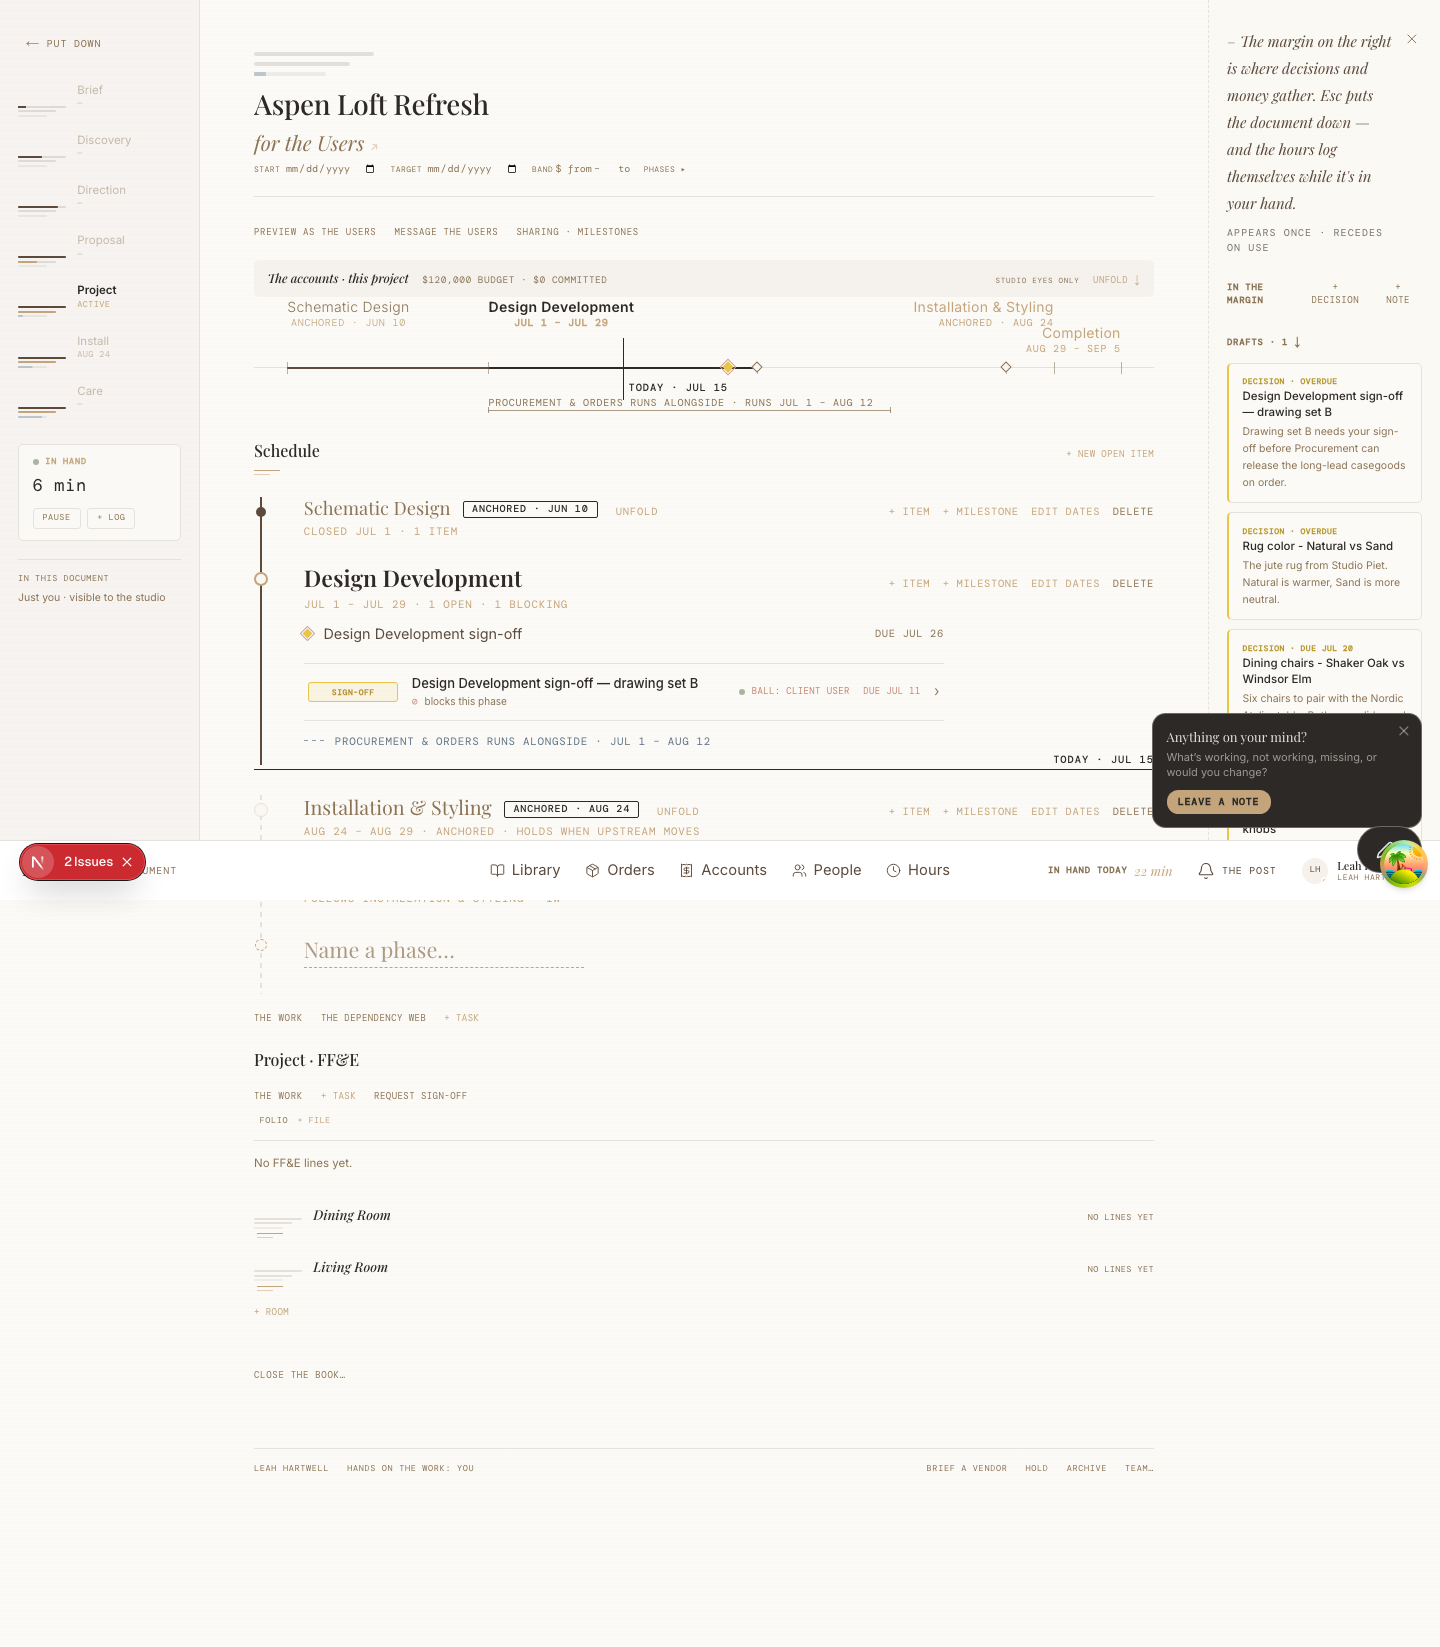
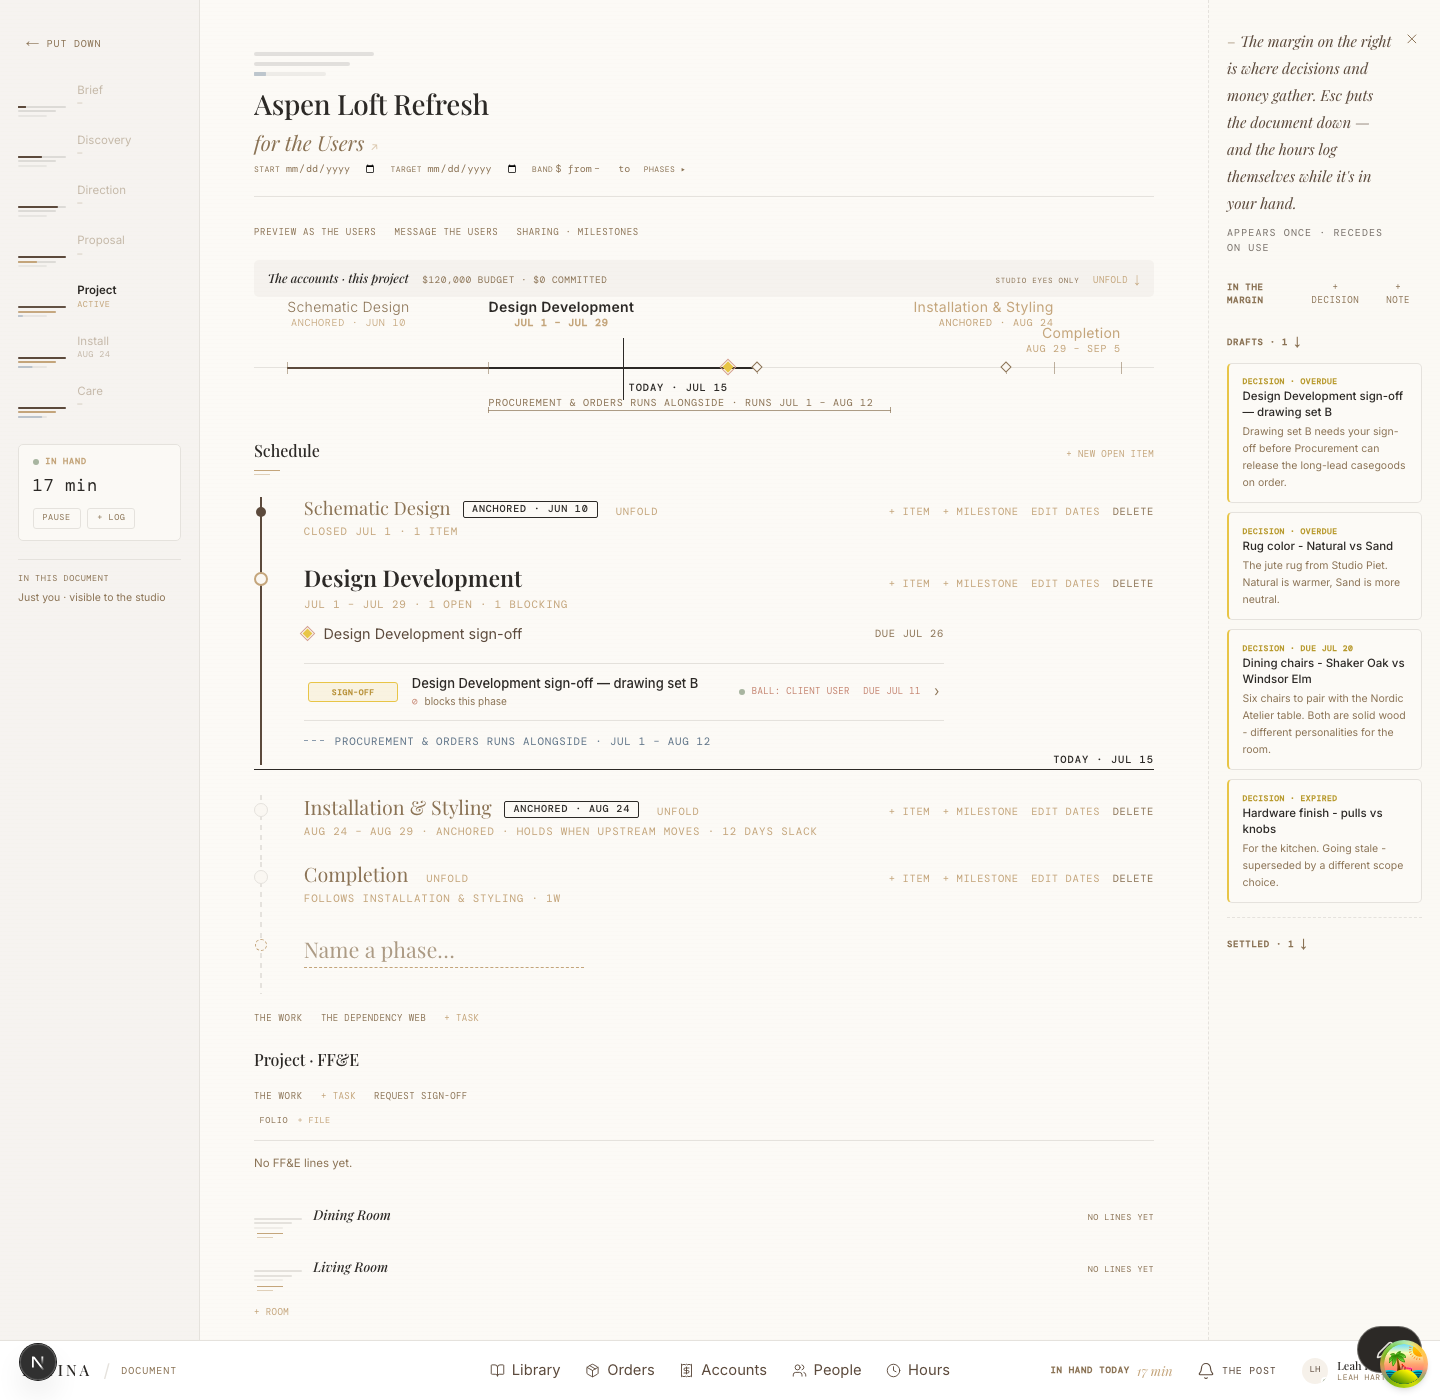
docs(the-document): slice-03 drop refresh — slack + anchored-overrun renders post-fix
Re-walk of Slice 03's Compose surface after 459883f7 (slack attribution,
anchored-lane-demotion, anchor-chip nesting). Re-verified all three fixes live
on Aspen and retook the affected captures: anchor-slack-project.png now shows
"12 days slack" (matches the seed chain's hand-computed float); overrun-
terracotta.png confirms the anchored phase stays in the main lane with the
terracotta conflict visible instead of lane-demoting; activated-spine.png
(fresh proposal->activation replay) shows Installation & Styling rendering as
a full spine row through a 44-day overrun instead of vanishing into a thread
hairline; compose-mobile.png picks up both the slack text and the disappearance
of the nested-button console warning. what-to-click.md's defect notes are
updated to "found by the walk, fixed in 459883f7, re-verified" — remaining
escalations (thread-lane phases have no compose actions, delete-confirm copy
nit, and the full design-question list) are unchanged.

Claude-Session: https://claude.ai/code/session_01Agn5SLV7F3gjngKcgArvik

diff --git a/docs/design/the-document/screenshots/schedule-slice-03/what-to-click.md b/docs/design/the-document/screenshots/schedule-slice-03/what-to-click.md
@@ -25,57 +25,57 @@ chained project — Aspen Loft Refresh (seeded, chained + anchored) is the riche
 | `patina-six-born.png` | The Patina Six applied to a proposal — 6 chained phases, PROJECT PROGRESS summary (1/3/4/8/3/1w = 20w total). |
 | `ghost-add-typing.png` | Mid-capture on the project spine's ghost line — the passive compute line ("→ Computes … · Slack → N days") visible before Enter commits. |
 | `anchor-slack.png` | Proposal composer: typing "Sep 21" into Installation's duration cell → the `ANCHORED · SEP 21` chip renders. The proposal surface has no slack meta (by design — see §5); for the project-side meta line, see `anchor-slack-project.png`. |
-| `anchor-slack-project.png` | Aspen's Installation & Styling phase, pre-mutation — "Aug 24 – Aug 29 · Anchored · Holds when upstream moves". **No "N days slack" segment renders** — see the defect note below. |
-| `overrun-terracotta.png` | Aspen with Schematic Design's duration pushed to 35d — Installation's meta reads "Chain overruns Aug 24 by 2 days" in terracotta, directly beneath its normal anchored meta. Reverted after capture. |
+| `anchor-slack-project.png` | Aspen's Installation & Styling phase, pre-mutation — "Aug 24 – Aug 29 · Anchored · Holds when upstream moves · 12 days slack". Fixed in 459883f7 — see the note below (was missing the "· N days slack" segment entirely). |
+| `overrun-terracotta.png` | Aspen with Schematic Design's duration pushed to 35d — Installation's meta reads "Chain overruns Aug 24 by 2 days" in terracotta, directly beneath its normal anchored meta, **with the anchor still in the main lane** (heading, compose actions, and all — fixed in 459883f7; previously this exact mutation could lane-demote the phase and swallow the warning it exists to show). Reverted after capture. |
 | `milestone-composer.png` | Proposal composer's anchored-milestones mini-list — "Concept sign-off" (Sign-off · Aug 1) added to Schematic Design. |
 | `milestone-composer-project.png` | Project spine's `MilestoneComposer` open on Completion, mid-entry ("Handoff walkthrough" · Event · "-3d") before submit. |
 | `delete-confirm.png` | The inline typographic delete-relink confirm on Aspen's Completion phase: `Delete "Completion"? 1 milestone go with it; 1 phase will follow Installation & Styling.` (grammar nit: "go" doesn't conjugate for the singular count — see below). |
 | `negative-duration-guard.png` | "-3d" typed into a phase duration (project surface) — inline terracotta "Durations must be positive — e.g. 3w or 10d", no write. |
 | `proposal-keydates-readonly.png` | The Patina-Six draft's client-copy preview: phases + the "Key dates" sub-line carrying the anchored "Concept sign-off" milestone. No unanchored working milestone anywhere, as required. |
-| `activated-spine.png` | The newly-activated project's document, right after `activate_proposal_as_project` — the born schedule (Consultation active; Schematic Design, Design Development, Procurement & Orders on the Rule; Installation & Styling and Completion render as thread hairlines — see the lane-promotion finding below, an honest consequence of the "Sep 21" anchor set during the demo). |
-| `compose-mobile.png` | Aspen's spine at 390px — persistent quiet compose actions (+ Item / + Milestone / Edit dates / Delete) survive the mobile fold; the "Edit dates" label truncates at the right edge (minor). |
+| `activated-spine.png` | Re-taken post-fix. The newly-activated project's document, right after `activate_proposal_as_project` — Consultation, Schematic Design, Design Development, Procurement & Orders on the Rule; **Installation & Styling now renders as a full spine row** (heading, compose actions, "Anchored · Sep 21" chip, "Chain overruns Sep 21 by 44 days" in terracotta) instead of vanishing into a thread hairline — the lane-demotion fix. Completion still renders as a Rule-only thread hairline, correctly: it's unanchored, so R100's "overlap is legal" promotion still applies to it. |
+| `compose-mobile.png` | Re-taken post-fix. Aspen's spine at 390px — persistent quiet compose actions (+ Item / + Milestone / Edit dates / Delete) survive the mobile fold; Installation & Styling's meta now includes "· 12 days slack"; the "2 Issues" console-warning badge from the earlier capture (nested-button warning) is gone. The "Edit dates" label truncation at the right edge remains (minor, unrelated). |
 | `gate-off.png` | `schedule-spine:false` — the old PhaseTimeline + CoordinationBand render byte-identical to pre-Slice-01. The proposal composer's grammar field is **not** behind this flag by design; confirmed still present with the gate off. |
 
 ## What the walk found (report in full at the task's scratchpad path; summarized here)
 
-**Confirmed defect — slack meta never renders.** `packages/utils/src/schedule.ts:620` sets
-each resolved phase's `slackDays` from `downstreamSlack(id)` (the nearest slack among a
-phase's *followers*), not from that phase's own `anchorSlack` entry. The one branch that
-consumes `slackDays` (`phaseMeta`'s `future && anchored` case) wants the anchored phase's
-*own* slack — so "N days slack" never appears anywhere, confirmed on Aspen's live,
-unmutated Installation & Styling phase (12 days slack in the DB's chain math, zero
-occurrences of "days slack" in the rendered DOM). The anchor chip and the rest of the meta
-line are unaffected.
+**Slack meta not rendering — found by this walk, fixed in `459883f7`, re-verified.** The
+resolver was crediting an anchored phase's slack to the wrong field (`downstreamSlack`, which
+only looks at *followers*, never the phase's own absorbed float), so "N days slack" never
+appeared anywhere. Fixed by keying `slackDays` off the phase's own `anchorSlack` entry when
+it's the anchor. Re-walked on Aspen's unmutated Installation & Styling phase: the seed chain's
+known 12-day float (procurement ends +28, anchor +40) now renders verbatim — "Aug 24 – Aug 29
+· Anchored · Holds when upstream moves · 12 days slack" — see `anchor-slack-project.png` and
+`compose-mobile.png`.
 
-**Structural finding — lane auto-promotion can swallow the overrun UI.** The resolver's
-greedy main-lane packer promotes a phase to `thread` lane whenever its computed start falls
-before the running main-lane end. An anchored phase in `chain_does_not_fit` conflict, by
-definition, often satisfies exactly that condition against its own upstream main-lane
-predecessor — so the very phase the terracotta "Chain overruns…" text exists to warn about
-can get silently reclassified as a thread hairline (no heading, no meta, no compose actions,
-no conflict text) before the warning ever renders. The `overrun-terracotta.png` capture
-required choosing a mutation that produces the conflict *without* also triggering this
-promotion; a different mutation (increasing the same anchored phase's direct main-lane
-predecessor far enough) reproduces the swallow — reachable live on `activated-spine.png`,
-which incidentally demonstrates the same mechanic with Installation & Styling and Completion
-both rendering as thread hairlines rather than spine rows.
+**Lane auto-promotion swallowing the overrun UI — also found by this walk, also fixed in
+`459883f7`, re-verified for the anchored case.** Anchored phases are now exempted from the
+greedy packer's demote-on-overlap rule, so a `chain_does_not_fit` anchor stays a full spine
+row (heading, compose actions, terracotta conflict text) instead of vanishing into a
+Rule-only thread hairline. Re-walked two ways: (1) raising Schematic Design's duration to 35d
+on Aspen — Installation & Styling stays on the main lane and shows "Chain overruns Aug 24 by
+2 days" (`overrun-terracotta.png`); (2) the `activated-spine.png` specimen, where Installation
+& Styling now renders fully even though its chain overruns by 44 days. The fix is scoped to
+*anchored* phases only — Completion (unanchored) still legitimately lane-promotes per R100 on
+`activated-spine.png`, which is correct, not a residual bug.
 
 **Confirmed — thread-lane phases expose no compose actions.** `ThreadStitch` has zero
 interactive elements (no Edit dates / + Milestone / Delete). This was already an anticipated
 plan §10 escalation ("no follows/lane editors… procurement-as-thread pre-signature?"); the
 walk confirms it concretely — check 6's "delete a mid-chain phase" had to target a main-lane
 phase (Completion) because Procurement, the thread-lane phase, has no delete affordance at
-all.
+all. Not in scope for `459883f7` — still open.
 
-**HTML-validity finding.** `AnchorChip`'s unpin `<button>` nests inside the phase heading's
-own toggle `<button>` (`phase-section.tsx`, the `{name}{anchorChip}` composition) whenever a
-collapsed phase is anchored — confirmed via a live React hydration-error console warning on
-Aspen's page load. Nested interactive controls are invalid HTML and unreliable for
-pointer/keyboard/AT interaction; this is a plausible root cause behind the existing
-escalation "chip-unpin failures show no inline error."
+**HTML-validity finding — found by this walk, fixed in `459883f7`, re-verified.**
+`AnchorChip`'s unpin `<button>` nested inside the phase heading's own toggle `<button>`
+whenever a collapsed phase was anchored, confirmed via a live React hydration-error console
+warning on Aspen's page load. `phase-section.tsx` now renders the fold-toggle, chip, and fold
+mark as three siblings instead of nesting the chip's button inside the toggle button. Re-walk
+console listener attached from page load through every mutation this session: zero
+nested-button / `validateDOMNesting` warnings observed.
 
-**Copy nit.** `phase-delete-confirm.tsx`'s `plural()` helper pluralizes the noun but not the
-verb — "1 milestone go with it" reads ungrammatically at n=1.
+**Copy nit — still open.** `phase-delete-confirm.tsx`'s `plural()` helper pluralizes the noun
+but not the verb — "1 milestone go with it" reads ungrammatically at n=1. Not in scope for
+`459883f7`.
 
 ## Escalations for the consolidated review
 
@@ -92,6 +92,7 @@ failure (now root-caused above) · weeks-mirror rounds 1–3d to 0w · milestone
 ## The ask
 
 Deferred to the consolidated review at the end of Slice 05, per R104. Nothing here blocks
-Slice 04 from starting — but the two structural findings (lane-promotion swallowing the
-overrun/slack meta, and the confirmed slack-meta wiring bug) are worth an explicit ruling
-before Slice 05's baseline cut leans on either signal.
+Slice 04 from starting. The slack-meta wiring bug and the anchored-phase lane-demotion bug
+are both fixed and re-verified (`459883f7`) — no ruling needed on those two. Still open for
+the consolidated review: the thread-lane-phases-have-no-compose-actions gap, the delete-confirm
+copy nit, and the full escalations list below.
